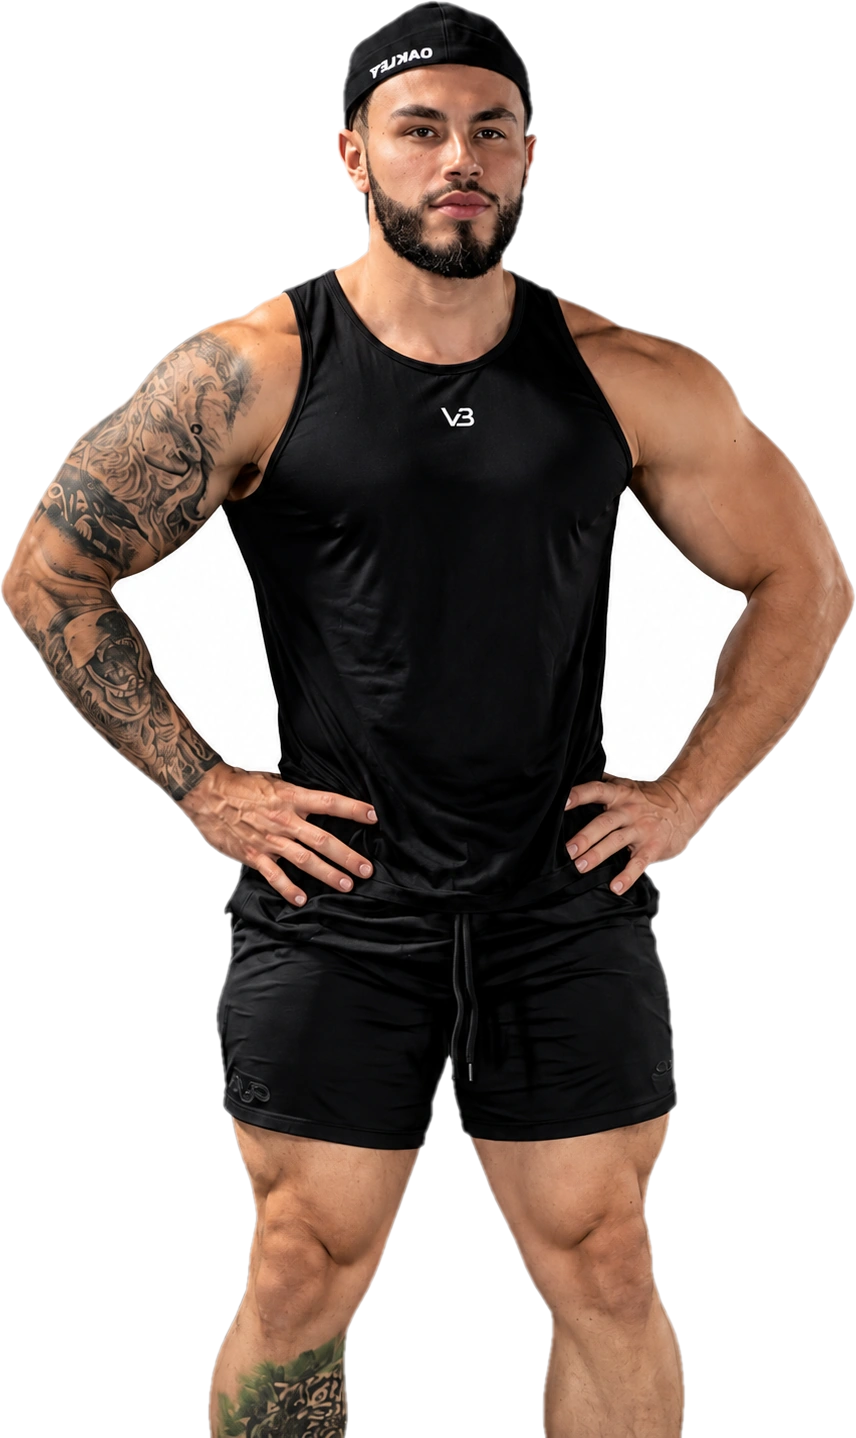
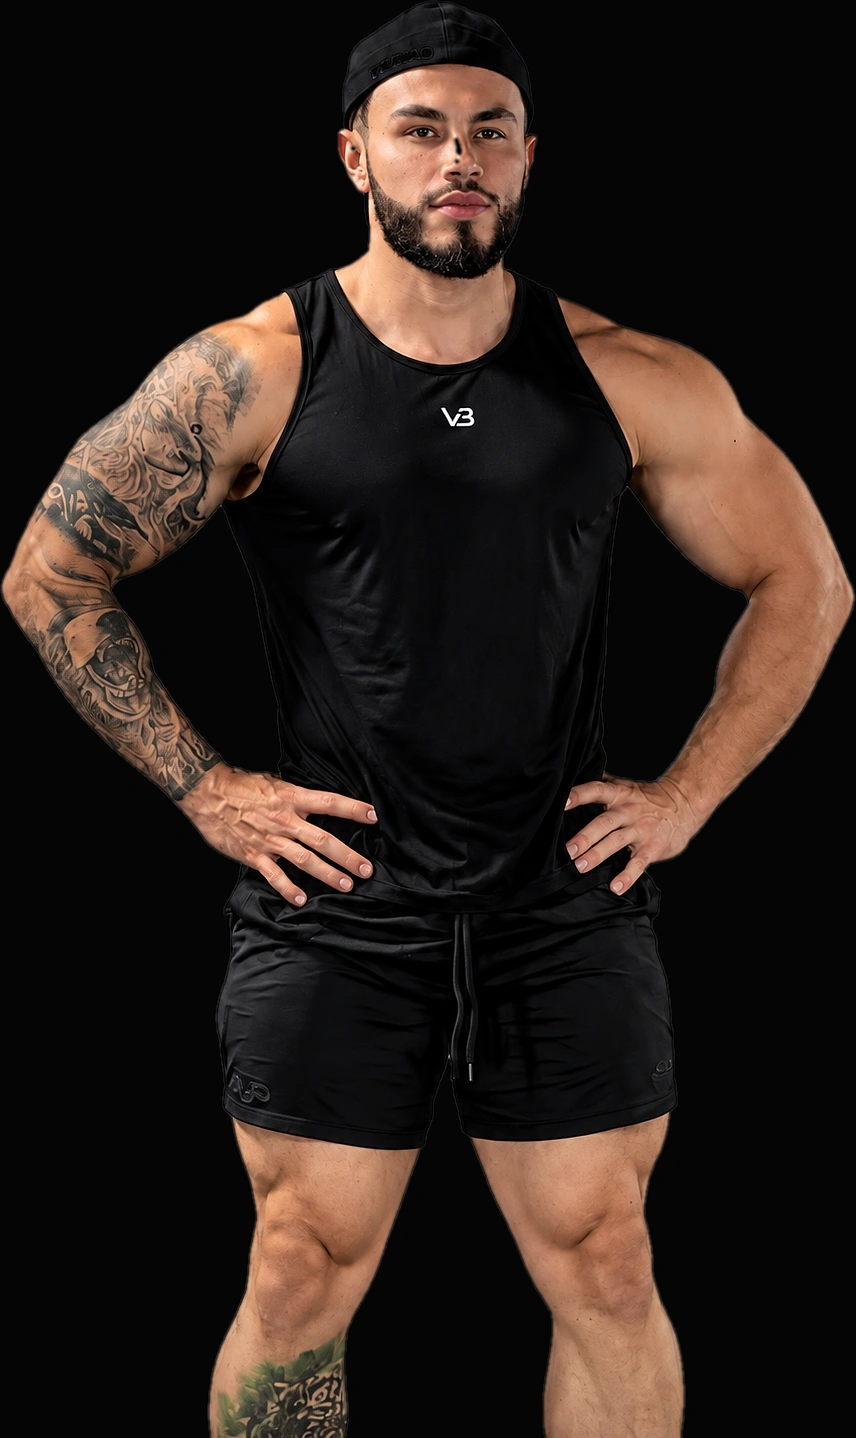
Elimina el parche blanco real en los recortes y ajusta loader/detalle visual
- Causa real encontrada: los recortes se entregaban como PNG/WebP con
  canal alfa (fondo transparente); algo en la ruta de renderizado del
  navegador pintaba mal esa transparencia en zonas concretas (hueco de
  axila/cadera), mostrando un parche blanco opaco pese a que el archivo
  decodificaba bien en Node y en el visor nativo de imagenes
- Solucion definitiva: cada recorte ahora se compone directamente sobre
  el color de fondo real de su seccion (#050505) en el propio pipeline
  de proceso, sin canal alfa en el archivo final - no queda transparencia
  que un renderizador pueda interpretar mal
- El hueco de axila/cadera de negra.png y vinotinto.png resulto estar
  85-93px del fondo detectado (no un simple "pellizco"), lejos del
  alcance que tenia antes - se corrige subiendo el radio de deteccion
  de bolsillos a 110px (seguro: la prenda oscura nunca se confunde con
  el umbral de blanco)
- Para blanca.png (prenda blanca sobre fondo blanco) ningun umbral de
  color separa el hueco real de los pliegues de la tela sin arriesgar
  agujeros en la camiseta; se resuelve con un relleno geometrico manual
  (elipse) acotado a la zona ya medida en negra.png, sin depender del
  color ahi
- Pantalla de carga: con "reducir movimiento" activo en el sistema se
  ocultaba casi instantaneo (0ms) y no llegaba a verse - ahora se
  mantiene visible un tiempo minimo aunque no anime
- Refuerza el look editorial de las secciones con recorte (marcas de
[…]

diff --git a/_proc/cutout.js b/_proc/cutout.js
@@ -9,6 +9,8 @@ function p(...a){ return path.join(...a); }
 fs.mkdirSync(OUT, {recursive:true});
 fs.mkdirSync(PROC, {recursive:true});
 
+const DEST_BG = [5, 5, 5]; // var(--c-void) — every .figure container's own background
+
 function dilate(mask, w, h, iters){
   let cur = mask;
   for (let iter=0; iter<iters; iter++){
@@ -47,110 +49,157 @@ function floodFillFromBorder(mask, w, h){
   return visited;
 }
 
-async function removeBg(inputPath, {bg, threshold, choke, blur, pocketReach, pocketMinYFrac, alreadyAlpha}) {
+/** Returns {data, info, w, h, ch, visited} — visited[i]=1 means pixel i is background. */
+async function computeMask(inputPath, {bg, threshold, pocketReach, pocketThreshold, pocketZones}) {
   const { data, info } = await sharp(inputPath).raw().ensureAlpha().toBuffer({resolveWithObject:true});
   const w = info.width, h = info.height, ch = info.channels;
   const n = w*h;
+  const [br,bgg,bb] = bg;
+  const isBgCandidate = new Uint8Array(n);
+  for (let i=0;i<n;i++){
+    const idx = i*ch;
+    const dr = Math.abs(data[idx]-br), dg = Math.abs(data[idx+1]-bgg), db = Math.abs(data[idx+2]-bb);
+    isBgCandidate[i] = Math.max(dr,dg,db) <= threshold ? 1 : 0;
+  }
 
-  let visited;
-  if (alreadyAlpha) {
-    // trust existing alpha: background = fully transparent already
-    visited = new Uint8Array(n);
-    for (let i=0;i<n;i++) visited[i] = data[i*ch+3] < 10 ? 1 : 0;
-  } else {
-    const [br,bgg,bb] = bg;
-    const isBgCandidate = new Uint8Array(n);
-    for (let i=0;i<n;i++){
-      const idx = i*ch;
-      const dr = Math.abs(data[idx]-br), dg = Math.abs(data[idx+1]-bgg), db = Math.abs(data[idx+2]-bb);
-      isBgCandidate[i] = Math.max(dr,dg,db) <= threshold ? 1 : 0;
+  let visited = floodFillFromBorder(isBgCandidate, w, h);
+
+  if (pocketReach > 0){
+    // Pockets can use a looser colour threshold than the main border flood-fill
+    // (a shadowed gap is rarely as pure as the lit backdrop) — safe here only
+    // because acceptance is ALSO restricted to known gap zones below.
+    const pocketCandidate = pocketThreshold && pocketThreshold !== threshold
+      ? (() => {
+          const m = new Uint8Array(n);
+          for (let i=0;i<n;i++){
+            const idx = i*ch;
+            const dr = Math.abs(data[idx]-br), dg = Math.abs(data[idx+1]-bgg), db = Math.abs(data[idx+2]-bb);
+            m[i] = Math.max(dr,dg,db) <= pocketThreshold ? 1 : 0;
+          }
+          return m;
+        })()
+      : isBgCandidate;
+
+    const zones = pocketZones ? pocketZones.map(([x0,y0,x1,y1]) => [x0*w,y0*h,x1*w,y1*h]) : null;
+    function inAnyZone(minX,minY,maxX,maxY){
+      if (!zones) return true;
+      return zones.some(([zx0,zy0,zx1,zy1]) => minX>=zx0-4 && maxX<=zx1+4 && minY>=zy0-4 && maxY<=zy1+4);
     }
 
-    visited = floodFillFromBorder(isBgCandidate, w, h);
-
-    // Pick up enclosed background pockets (e.g. an armpit gap pinched off where
-    // the arm touches the torso) WITHOUT ever walking through fabric: a pocket
-    // is accepted only if some part of it sits within `pocketReach` px of the
-    // already border-connected background — a deep interior island (a chest
-    // logo, or a big near-white blob inside a white garment) sits far from the
-    // true background and is correctly left alone.
-    if (pocketReach > 0){
-      const minY = pocketMinYFrac ? Math.round(h * pocketMinYFrac) : 0;
-      // repeat until stable: accepting one pocket can bring a further pocket
-      // (chained around a limb) within reach on the next pass
-      for (let pass=0; pass<8; pass++){
-        const visitedNear = dilate(visited, w, h, pocketReach);
-        const compVisited = new Uint8Array(n);
-        let changed = false;
-        for (let start=0; start<n; start++){
-          if (visited[start] || compVisited[start] || !isBgCandidate[start]) continue;
-          const comp = [];
-          let nearBorder = false;
-          let ch2=0, ct2=0;
-          const compQueue = new Int32Array(n);
-          compQueue[ct2++] = start; compVisited[start] = 1;
-          while (ch2 < ct2){
-            const i = compQueue[ch2++];
-            comp.push(i);
-            if (visitedNear[i]) nearBorder = true;
-            const x = i % w, y = (i / w) | 0;
-            const nbrs = [[x+1,y],[x-1,y],[x,y+1],[x,y-1]];
-            for (const [nx,ny] of nbrs){
-              if (nx<0||ny<0||nx>=w||ny>=h) continue;
-              const ni = ny*w+nx;
-              if (visited[ni] || compVisited[ni] || !isBgCandidate[ni]) continue;
-              compVisited[ni] = 1; compQueue[ct2++] = ni;
-            }
-          }
-          // only reveal the part of this pocket at/below the safe line — a
-          // component that spans past it (e.g. up into a shoulder seam where a
-          // fabric highlight sits right against the true background) keeps its
-          // upper portion opaque rather than risk eating into the fabric there
-          if (nearBorder){
-            for (const i of comp){
-              const y = (i / w) | 0;
-              if (y >= minY){ visited[i] = 1; changed = true; }
-            }
+    for (let pass=0; pass<8; pass++){
+      const visitedNear = dilate(visited, w, h, pocketReach);
+      const compVisited = new Uint8Array(n);
+      let changed = false;
+      for (let start=0; start<n; start++){
+        if (visited[start] || compVisited[start] || !pocketCandidate[start]) continue;
+        const comp = [];
+        let nearBorder = false;
+        let minX=w,minY=h,maxX=0,maxY=0;
+        let ch2=0, ct2=0;
+        const compQueue = new Int32Array(n);
+        compQueue[ct2++] = start; compVisited[start] = 1;
+        while (ch2 < ct2){
+          const i = compQueue[ch2++];
+          comp.push(i);
+          if (visitedNear[i]) nearBorder = true;
+          const x = i % w, y = (i / w) | 0;
+          if (x<minX) minX=x; if (x>maxX) maxX=x; if (y<minY) minY=y; if (y>maxY) maxY=y;
+          const nbrs = [[x+1,y],[x-1,y],[x,y+1],[x,y-1]];
+          for (const [nx,ny] of nbrs){
+            if (nx<0||ny<0||nx>=w||ny>=h) continue;
+            const ni = ny*w+nx;
+            if (visited[ni] || compVisited[ni] || !pocketCandidate[ni]) continue;
+            compVisited[ni] = 1; compQueue[ct2++] = ni;
           }
         }
-        if (!changed) break;
+        if (nearBorder && inAnyZone(minX,minY,maxX,maxY)){ for (const i of comp) visited[i] = 1; changed = true; }
       }
+      if (!changed) break;
     }
-
-    // choke: dilate background mask inward by `choke` px (shrinks foreground rim)
-    if (choke > 0) visited = dilate(visited, w, h, choke);
   }
+
+  return {data, info, w, h, ch, isBgCandidate, visited};
+}
+
+async function finish(job, data, info, visited, choke, blur){
+  const w = info.width, h = info.height, ch = info.channels;
+  const n = w*h;
+  if (choke > 0) visited = dilate(visited, w, h, choke);
 
   const alphaMask = Buffer.alloc(n);
   for (let i=0;i<n;i++) alphaMask[i] = visited[i] ? 0 : 255;
-
-  const rgb = Buffer.alloc(n*3);
-  for (let i=0;i<n;i++){ const idx=i*ch; rgb[i*3]=data[idx]; rgb[i*3+1]=data[idx+1]; rgb[i*3+2]=data[idx+2]; }
-
   const alphaBuf = await sharp(alphaMask, {raw:{width:w,height:h,channels:1}}).blur(blur).extractChannel(0).raw().toBuffer();
 
-  const composed = await sharp(rgb, {raw:{width:w,height:h,channels:3}})
-    .joinChannel(alphaBuf, {raw:{width:w,height:h,channels:1}})
-    .png().toBuffer();
+  // Alpha-composite onto the destination's own opaque background colour BY
+  // HAND (plain arithmetic, no sharp alpha pipeline involved) — the exported
+  // file ends up strictly 3-channel with no alpha at all, so there is nothing
+  // left for any renderer to mis-handle: the "removed" pixels simply ARE that
+  // background colour, for good.
+  const rgb = Buffer.alloc(n*3);
+  for (let i=0;i<n;i++){
+    const idx = i*ch;
+    const a = alphaBuf[i] / 255;
+    rgb[i*3]   = Math.round(data[idx]   * a + DEST_BG[0] * (1-a));
+    rgb[i*3+1] = Math.round(data[idx+1] * a + DEST_BG[1] * (1-a));
+    rgb[i*3+2] = Math.round(data[idx+2] * a + DEST_BG[2] * (1-a));
+  }
 
-  // trim to content bbox based on alpha
+  const composed = await sharp(rgb, {raw:{width:w,height:h,channels:3}}).png().toBuffer();
   const trimmed = await sharp(composed).trim({threshold:10}).toBuffer();
   return trimmed;
 }
 
 async function run(){
+  fs.mkdirSync(p(PROC), {recursive:true});
+
+  // --- black & merlot: fully reliable via colour alone (dark garment vs white bg) ---
+  const black  = await computeMask(p(SRC,'negra.png'),     {bg:[254,254,254], threshold:20, pocketReach:110});
+  const merlot = await computeMask(p(SRC,'vinotinto.png'), {bg:[254,254,254], threshold:20, pocketReach:110});
+
+  // --- white: no colour threshold safely separates the true gap from fold
+  // highlights on a white garment (both sit in the same brightness range), so
+  // colour-based pocket recovery kept either leaving the gap closed or eating
+  // speckled holes in the fabric. Instead: keep the tight (7) flood-fill for
+  // everything colour can safely tell apart, then force-fill the two gap
+  // pockets geometrically — an ellipse inset well inside the bounding box
+  // measured off the black photo (same shoot/pose/framing), so it can never
+  // reach the fabric edge regardless of what colour is under it.
+  const white = await computeMask(p(SRC,'blanca.png'), {bg:[254,254,254], threshold:7, pocketReach:0});
+  function fillEllipse(mask, w, h, [x0,y0,x1,y1]){
+    const cx = (x0+x1)/2*w, cy = (y0+y1)/2*h;
+    const rx = (x1-x0)/2*w, ry = (y1-y0)/2*h;
+    const minX = Math.floor((x0)*w), maxX = Math.ceil((x1)*w);
+    const minY = Math.floor((y0)*h), maxY = Math.ceil((y1)*h);
+    for (let y=minY; y<=maxY; y++){
+      for (let x=minX; x<=maxX; x++){
+        if (x<0||y<0||x>=w||y>=h) continue;
+        const nx = (x-cx)/rx, ny = (y-cy)/ry;
+        if (nx*nx + ny*ny <= 1) mask[y*w+x] = 1;
+      }
+    }
+  }
+  // boxes inset ~5% inside the measured negra.png gap bounds
+  fillEllipse(white.visited, white.w, white.h, [0.664, 0.349, 0.783, 0.533]);
+  fillEllipse(white.visited, white.w, white.h, [0.218, 0.361, 0.355, 0.528]);
+
+  // --- seated: already has real, pre-cut alpha from the source PNG ---
+  const seatedRaw = await sharp(p(SRC,'sentado.png')).raw().ensureAlpha().toBuffer({resolveWithObject:true});
+  const seatedVisited = new Uint8Array(seatedRaw.info.width * seatedRaw.info.height);
+  for (let i=0;i<seatedVisited.length;i++) seatedVisited[i] = seatedRaw.data[i*seatedRaw.info.channels+3] < 10 ? 1 : 0;
+
   const jobs = [
-    {file:'negra.png',     out:'cutout-black.webp',   bg:[254,254,254], threshold:20, pocketReach:12, choke:2, blur:1.4},
-    {file:'vinotinto.png', out:'cutout-merlot.webp',  bg:[254,254,254], threshold:20, pocketReach:12, choke:2, blur:1.4},
-    {file:'blanca.png',    out:'cutout-white.webp',   bg:[254,254,254], threshold:7,  pocketReach:0, choke:3, blur:1.4},
-    {file:'sentado.png',   out:'cutout-seated.webp',  alreadyAlpha:true, choke:0, blur:1.0},
+    {out:'cutout-black.webp',  m: black,  choke:2, blur:1.4},
+    {out:'cutout-merlot.webp', m: merlot, choke:2, blur:1.4},
+    {out:'cutout-white.webp',  m: white,  choke:3, blur:1.4},
+    {out:'cutout-seated.webp', m: {data:seatedRaw.data, info:seatedRaw.info, visited:seatedVisited}, choke:0, blur:1.0},
   ];
+
   for (const j of jobs){
-    const buf = await removeBg(p(SRC, j.file), j);
+    const buf = await finish(j, j.m.data, j.m.info, j.m.visited, j.choke, j.blur);
     const meta = await sharp(buf).metadata();
     console.log(j.out, 'trimmed to', meta.width+'x'+meta.height);
     const targetW = Math.min(meta.width, 1100);
-    await sharp(buf).resize({width: targetW, kernel:'lanczos3'}).webp({quality:95, effort:6}).toFile(p(OUT, j.out));
+    await sharp(buf).resize({width: targetW, kernel:'lanczos3'}).sharpen({sigma:0.5}).webp({quality:95, effort:6}).toFile(p(OUT, j.out));
     await sharp(buf).resize({width: Math.min(targetW,700), kernel:'lanczos3'}).png().toFile(p(PROC, j.out.replace('.webp','.png')));
   }
   console.log('CUTOUT DONE');

diff --git a/css/style.css b/css/style.css
@@ -386,8 +386,8 @@ input{ font: inherit; color: inherit; background: none; border: 0; }
   font-size: clamp(100px, 30vw, 360px);
   line-height: 1;
   letter-spacing: -.02em;
-  color: rgba(255,255,255,.035);
-  -webkit-text-stroke: 1px rgba(255,255,255,.05);
+  color: rgba(255,255,255,.055);
+  -webkit-text-stroke: 1px rgba(255,255,255,.09);
   white-space: nowrap;
   pointer-events: none;
   user-select: none;
@@ -400,8 +400,26 @@ input{ font: inherit; color: inherit; background: none; border: 0; }
   transform: translateX(-50%);
   background: radial-gradient(closest-side, var(--c-wine-glow), transparent 72%);
   filter: blur(14px);
-  opacity: .5;
+  opacity: .62;
   z-index: 0;
+}
+.figure::after{
+  content: '';
+  position: absolute; inset: 18px;
+  z-index: 2;
+  pointer-events: none;
+  background-repeat: no-repeat;
+  background-image:
+    linear-gradient(rgba(255,255,255,.22), rgba(255,255,255,.22)), linear-gradient(rgba(255,255,255,.22), rgba(255,255,255,.22)),
+    linear-gradient(rgba(255,255,255,.22), rgba(255,255,255,.22)), linear-gradient(rgba(255,255,255,.22), rgba(255,255,255,.22)),
+    linear-gradient(rgba(255,255,255,.22), rgba(255,255,255,.22)), linear-gradient(rgba(255,255,255,.22), rgba(255,255,255,.22)),
+    linear-gradient(rgba(255,255,255,.22), rgba(255,255,255,.22)), linear-gradient(rgba(255,255,255,.22), rgba(255,255,255,.22));
+  background-size: 22px 1px, 1px 22px, 22px 1px, 1px 22px, 22px 1px, 1px 22px, 22px 1px, 1px 22px;
+  background-position:
+    top left, top left,
+    top right, top right,
+    bottom left, bottom left,
+    bottom right, bottom right;
 }
 .figure__cutout{
   position: relative;
@@ -727,7 +745,7 @@ input{ font: inherit; color: inherit; background: none; border: 0; }
 .immersive{
   position: relative;
   overflow: hidden;
-  background: var(--c-carbon);
+  background: var(--c-void);
   display: flex;
   flex-direction: column;
 }

diff --git a/js/main.js b/js/main.js
@@ -28,8 +28,8 @@
     setLoaderProgress(100);
     window.setTimeout(function(){
       loader.classList.add('is-hidden');
-      window.setTimeout(function(){ if (loader && loader.parentNode) loader.parentNode.removeChild(loader); }, 900);
-    }, reducedMotion ? 0 : 260);
+      window.setTimeout(function(){ if (loader && loader.parentNode) loader.parentNode.removeChild(loader); }, reducedMotion ? 50 : 900);
+    }, reducedMotion ? 300 : 260);
   }
 
   if (loader && !reducedMotion){
@@ -41,10 +41,10 @@
     setLoaderProgress(100);
   }
 
-  var loaderTimer = window.setTimeout(hideLoader, reducedMotion ? 0 : 1600);
+  var loaderTimer = window.setTimeout(hideLoader, reducedMotion ? 550 : 1600);
   window.addEventListener('load', function(){
     window.clearTimeout(loaderTimer);
-    window.setTimeout(hideLoader, reducedMotion ? 0 : 320);
+    window.setTimeout(hideLoader, reducedMotion ? 450 : 320);
   });
 
   /* ---------------------------------------------------------

diff --git a/index.html b/index.html
@@ -450,7 +450,7 @@
   <div class="final-cta__figure figure">
     <span class="figure__ghost" aria-hidden="true">04</span>
     <span class="figure__glow" aria-hidden="true"></span>
-    <img class="figure__cutout" src="assets/img/model/cutout-white.webp" alt="Atleta con camiseta tank V&amp;B blanca, actitud de rendimiento" width="854" height="1431" loading="lazy" decoding="async">
+    <img class="figure__cutout" src="assets/img/model/cutout-white.webp" alt="Atleta con camiseta tank V&amp;B blanca, actitud de rendimiento" width="854" height="1429" loading="lazy" decoding="async">
   </div>
   <div class="final-cta__scrim" aria-hidden="true"></div>
   <div class="final-cta__content reveal">
